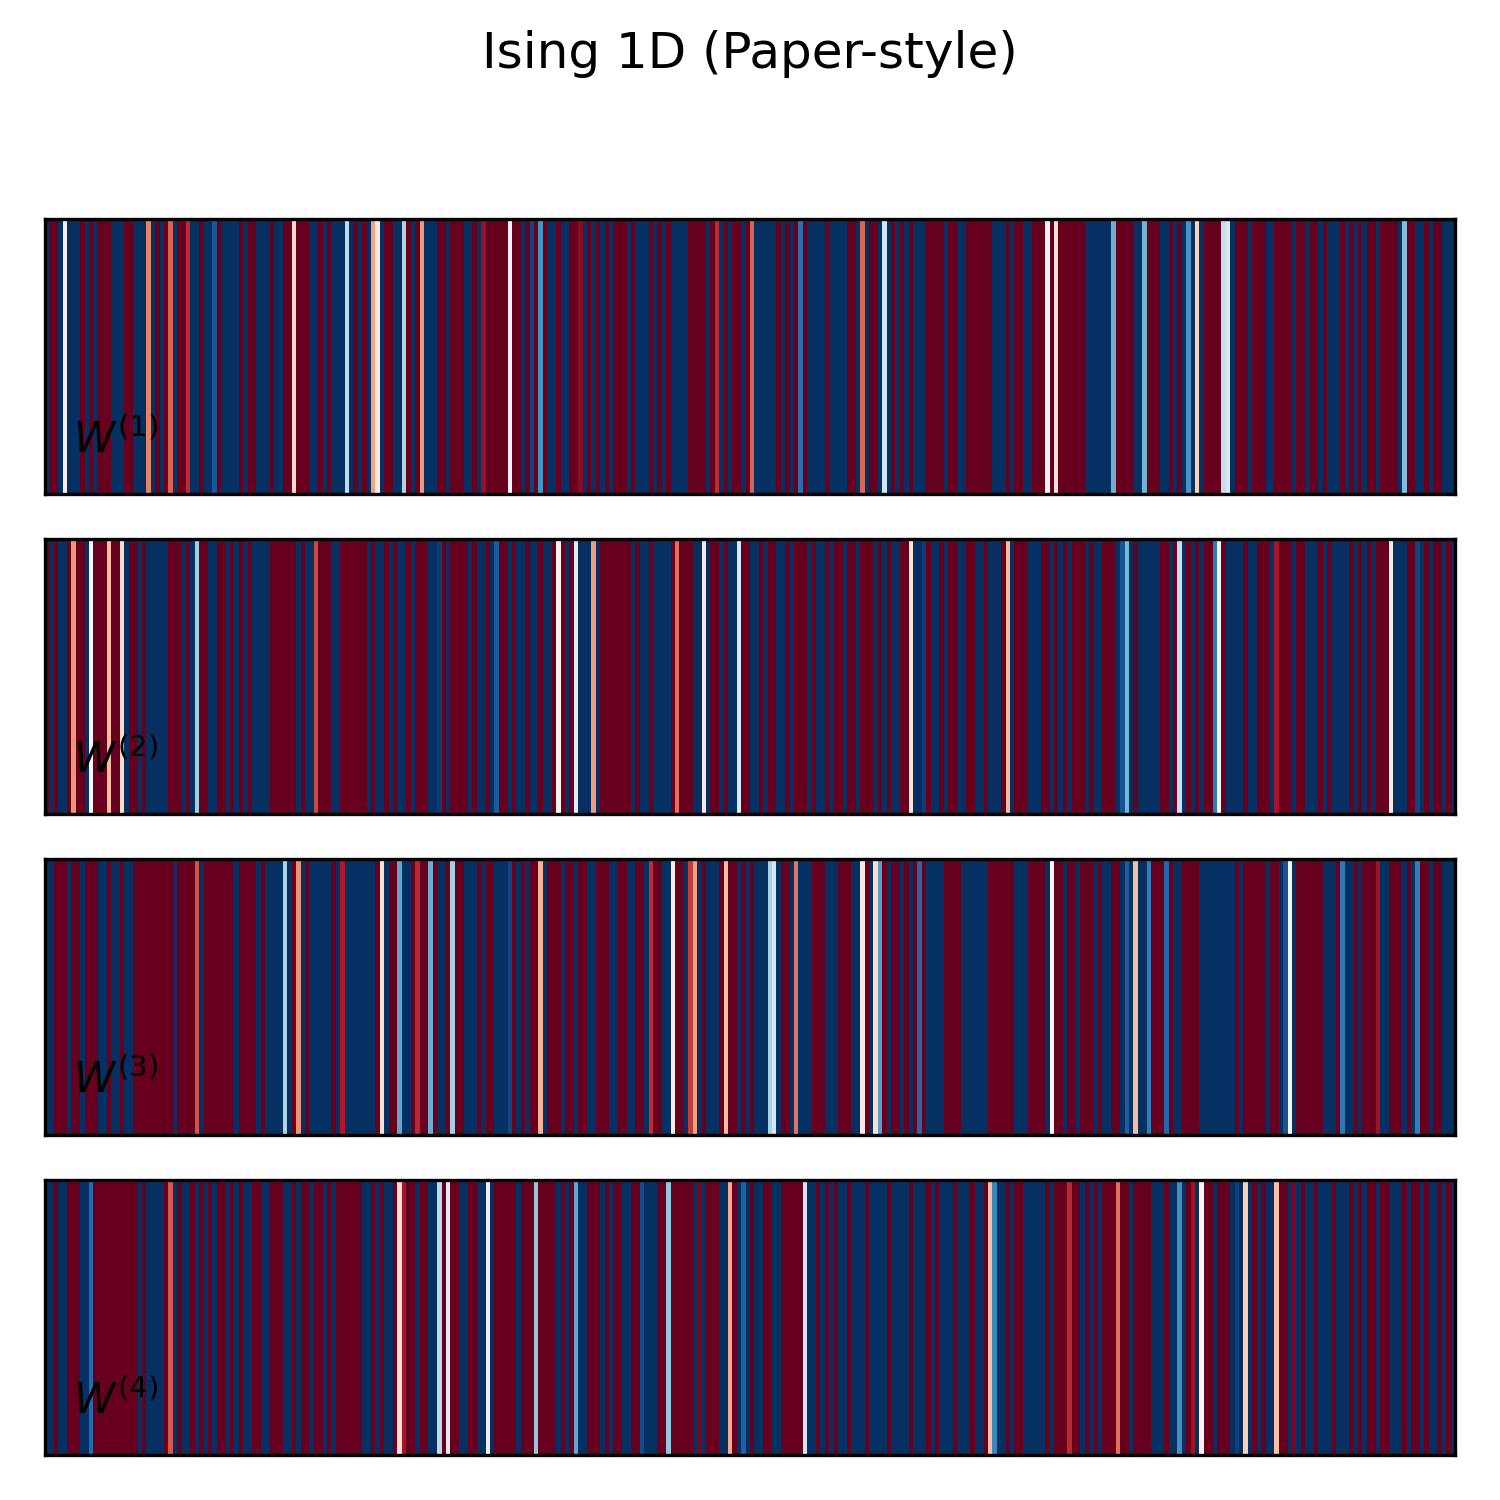
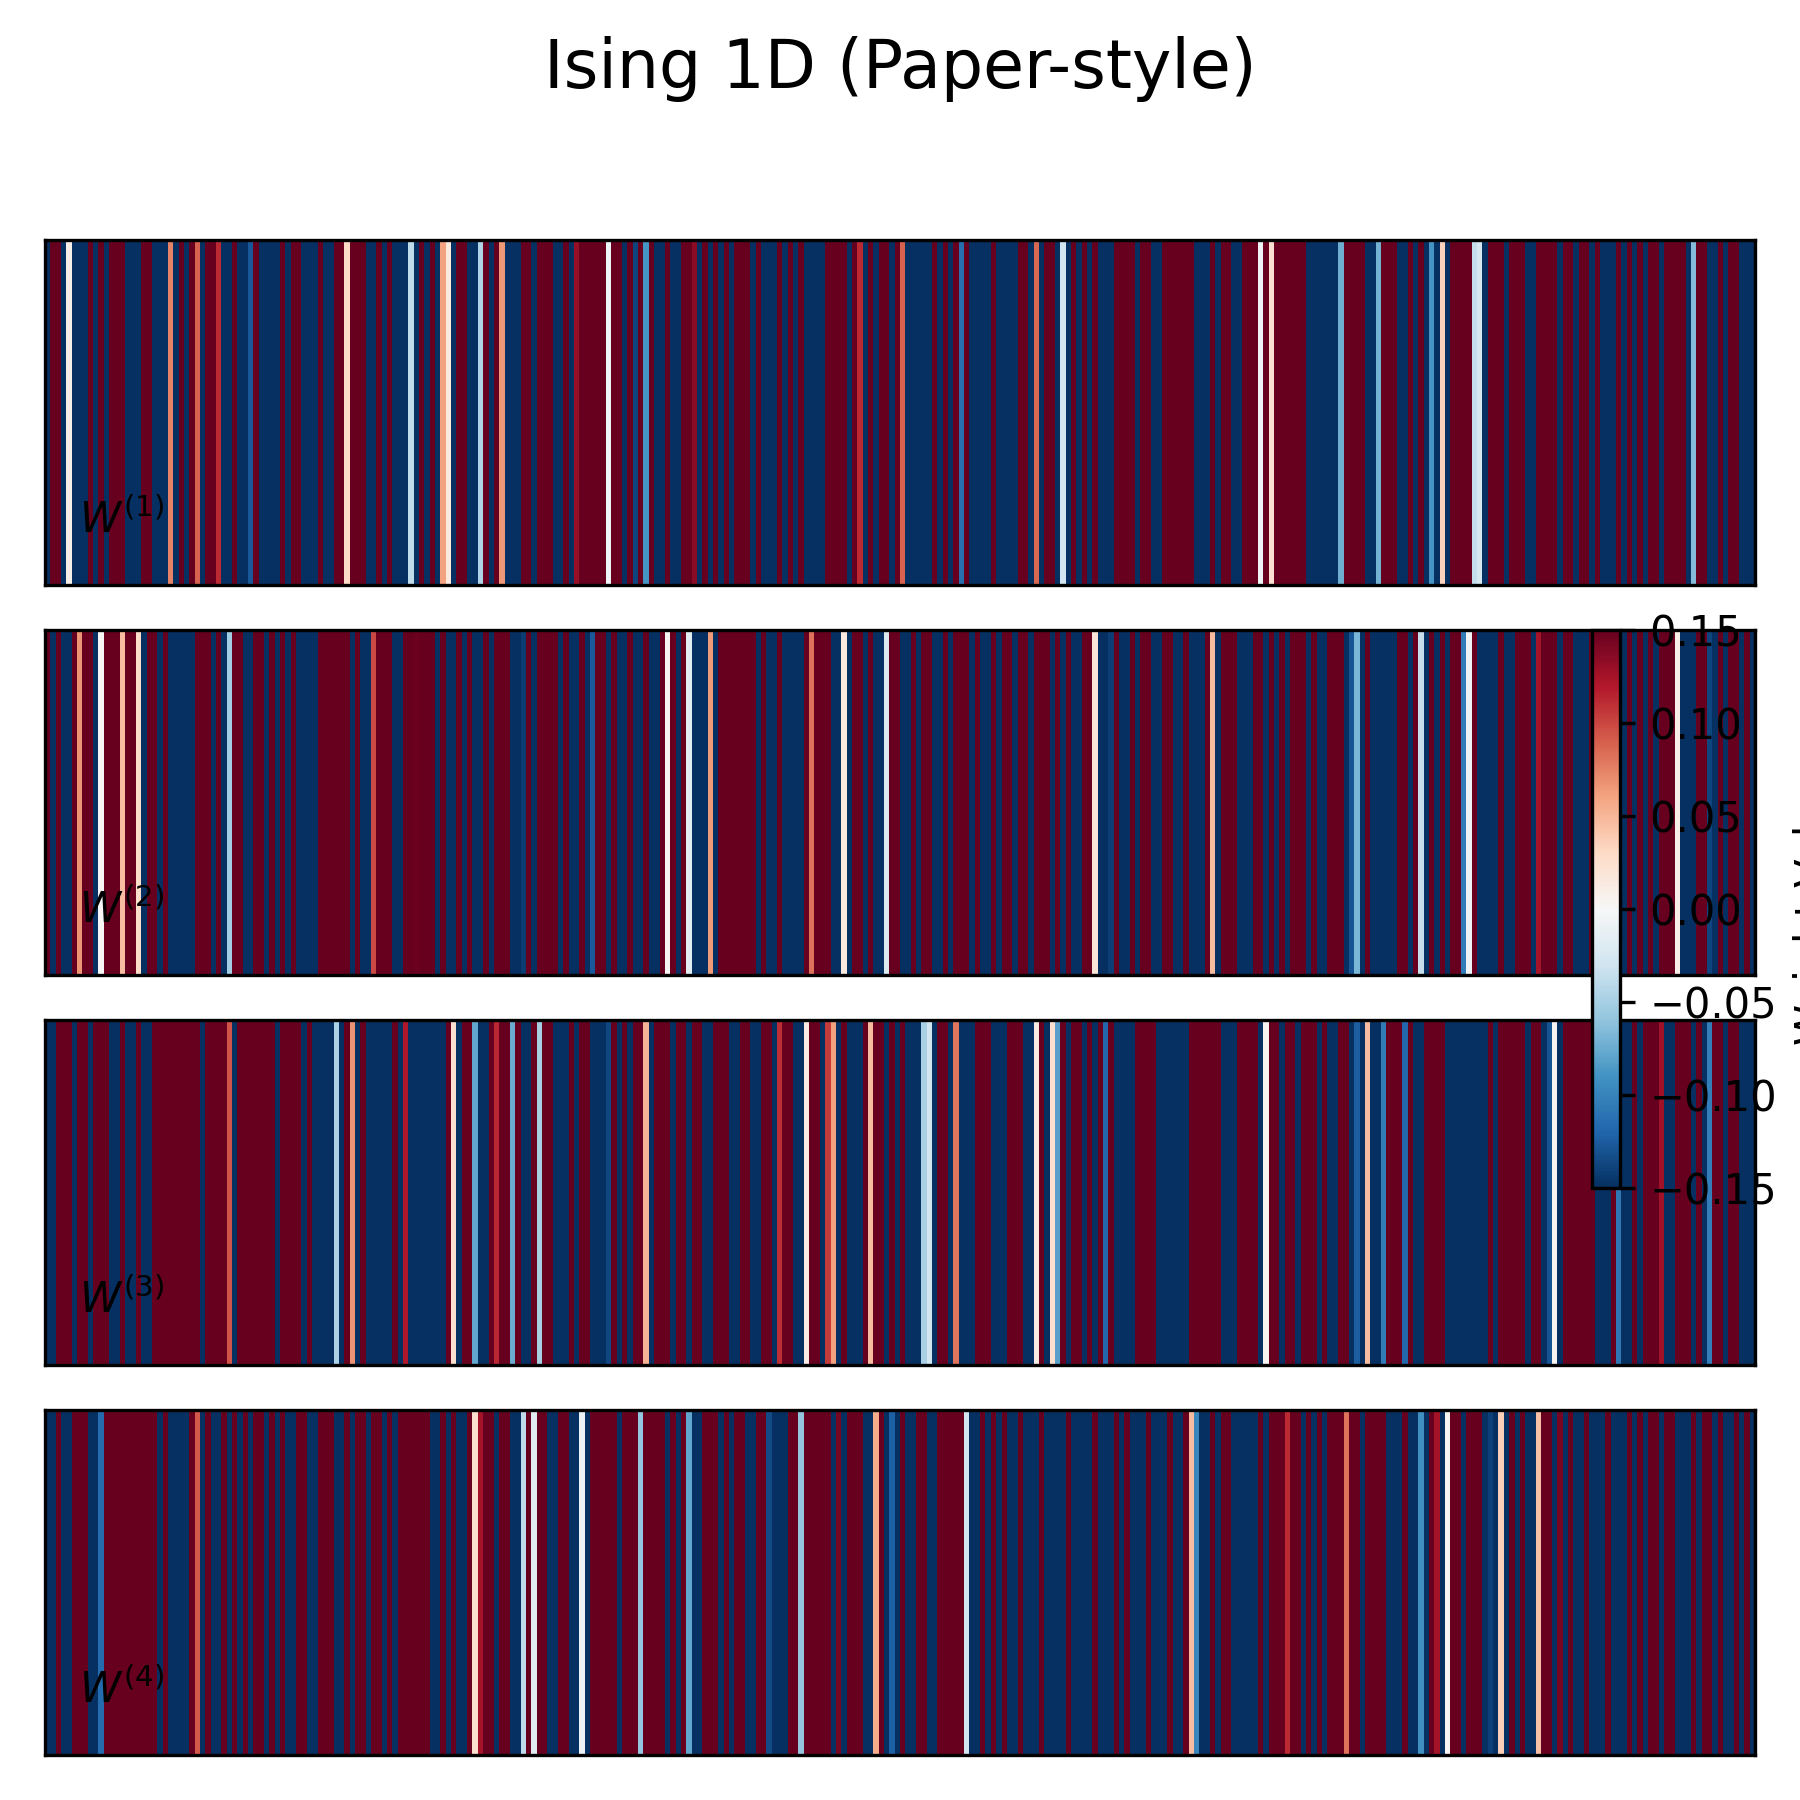
n

diff --git a/mainrun/5.py b/mainrun/5.py
@@ -2,39 +2,42 @@ import torch
 import numpy as np
 import matplotlib.pyplot as plt
 import seaborn as sns
-from nrbm_model import RBM  # Make sure rbm_model.py is accessible
+from nrbm_model import RBM  # Ensure rbm_model.py is in your working directory
 
 # =========================
 #   1) LOAD & PREP MODEL
 # =========================
 checkpoint_path = "checkpoint.pth"
 
-# As discovered, the checkpoint has W shape [320,80], so we do:
-num_visible = 320
-num_hidden = 80
+# According to the checkpoint shapes, the model was trained with:
+num_visible = 320  # e.g., 320 visible units
+num_hidden = 80    # e.g., 80 hidden units
 
 model = RBM(num_visible=num_visible, num_hidden=num_hidden)
 checkpoint = torch.load(checkpoint_path, map_location="cpu", weights_only=False)
 rbm_state = checkpoint["rbm_state_dict"]
 
 # Manually fix shape mismatches:
-model.W.data = rbm_state["W"].t()                 # shape => [80, 320]
-model.a.data = rbm_state["a"].expand(num_visible) # shape => [320]
-model.b.data = rbm_state["b"]                     # shape => [80]
+# Checkpoint's 'W' is saved as [320, 80] (visible x hidden), but our model expects [80, 320]
+model.W.data = rbm_state["W"].t()
+# The checkpoint's visible bias 'a' is a scalar (shape [1]); expand it to a vector of size num_visible.
+model.a.data = rbm_state["a"].expand(num_visible)
+# Load hidden bias 'b' as is.
+model.b.data = rbm_state["b"]
 
 # =========================
 #   2) EXTRACT & NORMALIZE
 # =========================
-W = model.W.detach().numpy()  # shape: [80, 320]
-# Normalize each filter (row) with z-score
+# Now, model.W has shape [80, 320]: each row corresponds to one hidden unit's filter.
+W = model.W.detach().numpy()
+# Normalize each filter using z-score normalization.
 W_norm = (W - W.mean(axis=1, keepdims=True)) / W.std(axis=1, keepdims=True)
-# Sort filters by variance (descending)
+# Sort filters by variance in descending order.
 sorted_idx = np.argsort(np.var(W_norm, axis=1))[::-1]
 W_sorted = W_norm[sorted_idx]
 
 # ------------------------------------------------------------
-#   HELPER: Label subplots with W^(i) in top-left corner
-# ------------------------------------------------------------
+# Helper function: Add filter label in top-left of subplot.
 def label_filter(ax, f_index):
     ax.text(
         0.02, 0.15, 
@@ -46,24 +49,28 @@ def label_filter(ax, f_index):
 # ================================
 #   3) FIGURE A: "Ising 1D"
 # ================================
-# We'll just pick 4 filters to mimic the paper's style
+# Pick 4 filters for Ising 1D (for demonstration)
 ising_1d_filters = W_sorted[:4]
 
-figA, axesA = plt.subplots(nrows=4, ncols=1, figsize=(5, 5))
-figA.suptitle("Ising 1D (Paper-style)")
+figA, axesA = plt.subplots(nrows=4, ncols=1, figsize=(6, 6))
+figA.suptitle("Ising 1D (Paper-style)", fontsize=16)
 
 for i, ax in enumerate(axesA):
-    # Reshape each filter into a single row
-    row_img = ising_1d_filters[i].reshape(1, -1)  # shape: [1, 320]
+    # Reshape each filter into a 1x320 image.
+    row_img = ising_1d_filters[i].reshape(1, -1)
     im = ax.imshow(
         row_img,
         aspect="auto",
         cmap="RdBu_r",
-        vmin=-0.15, vmax=0.15  # paper color range
+        vmin=-0.15, vmax=0.15  # Set color range to match paper
     )
     ax.set_xticks([])
     ax.set_yticks([])
     label_filter(ax, i)
+
+# Add a single colorbar for all subplots.
+cbarA = figA.colorbar(im, ax=axesA.ravel().tolist(), fraction=0.02, pad=0.04)
+cbarA.set_label("Weight Value")
 
 figA.tight_layout(rect=[0, 0, 1, 0.95])
 plt.savefig("figureA_ising_1d.png", dpi=300)
@@ -72,11 +79,11 @@ plt.close(figA)
 # ================================
 #   4) FIGURE B: "Heisenberg 1D"
 # ================================
-# Next 4 filters (just an example)
+# Pick the next 4 filters for Heisenberg 1D (as an example)
 heis_1d_filters = W_sorted[4:8]
 
-figB, axesB = plt.subplots(nrows=4, ncols=1, figsize=(5, 5))
-figB.suptitle("Heisenberg 1D (Paper-style)")
+figB, axesB = plt.subplots(nrows=4, ncols=1, figsize=(6, 6))
+figB.suptitle("Heisenberg 1D (Paper-style)", fontsize=16)
 
 for i, ax in enumerate(axesB):
     row_img = heis_1d_filters[i].reshape(1, -1)
@@ -84,11 +91,14 @@ for i, ax in enumerate(axesB):
         row_img,
         aspect="auto",
         cmap="RdBu_r",
-        vmin=-0.15, vmax=0.15  # same scale as the paper's 1D
+        vmin=-0.15, vmax=0.15  # Same color range as Ising 1D
     )
     ax.set_xticks([])
     ax.set_yticks([])
-    label_filter(ax, i)
+    label_filter(ax, i + 4)
+    
+cbarB = figB.colorbar(im, ax=axesB.ravel().tolist(), fraction=0.02, pad=0.04)
+cbarB.set_label("Weight Value")
 
 figB.tight_layout(rect=[0, 0, 1, 0.95])
 plt.savefig("figureB_heisenberg_1d.png", dpi=300)
@@ -97,24 +107,31 @@ plt.close(figB)
 # =================================
 #   5) FIGURE C: "Heisenberg 2D"
 # =================================
-# Next 16 filters for a 4x4 montage
+# Pick 16 filters for Heisenberg 2D (example)
 heis_2d_filters = W_sorted[8:8+16]
 
+# We'll reshape each filter (length 320) into a 2D array.
+# For example, 16 rows x 20 columns (16*20=320).
+filter_rows, filter_cols = 16, 20
+
 figC, axesC = plt.subplots(nrows=4, ncols=4, figsize=(8, 8))
-figC.suptitle("Heisenberg 2D (Paper-style)")
+figC.suptitle("Heisenberg 2D (Paper-style)", fontsize=16)
 
 for i in range(16):
     ax = axesC[i // 4, i % 4]
-    # Reshape each filter into 16x20 (like your 2D montage)
-    filt_2d = heis_2d_filters[i].reshape(16, 20)
+    filt_2d = heis_2d_filters[i].reshape(filter_rows, filter_cols)
     im = ax.imshow(
         filt_2d,
         cmap="RdBu_r",
-        vmin=-0.3, vmax=0.3  # paper's 2D scale
+        vmin=-0.3, vmax=0.3  # Set color range for 2D filters as in the paper
     )
     ax.set_xticks([])
     ax.set_yticks([])
-    label_filter(ax, i)
+    label_filter(ax, i + 8)
+
+# Add a colorbar for the 2D montage.
+cbarC = figC.colorbar(im, ax=axesC.ravel().tolist(), fraction=0.02, pad=0.04)
+cbarC.set_label("Weight Value")
 
 figC.tight_layout(rect=[0, 0, 1, 0.95])
 plt.savefig("figureC_heisenberg_2d.png", dpi=300)
